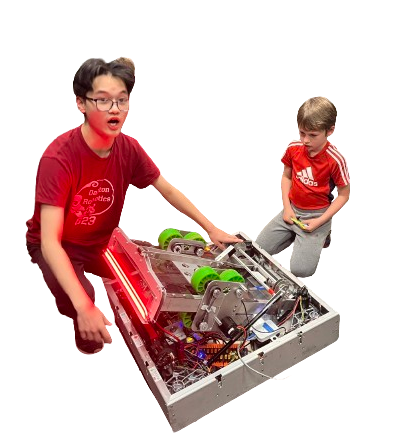
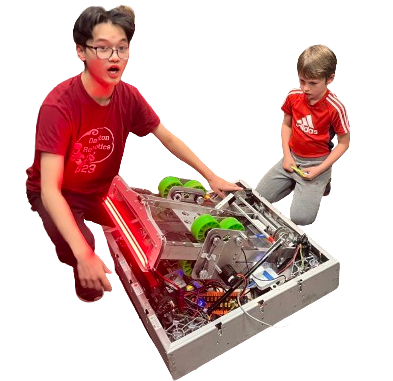
changed index wording slightly

diff --git a/index.html b/index.html
@@ -135,15 +135,13 @@
                         that communication, collaboration, and diversity allows us to triumph and overcome obstacles, 
                         and strive to create a space in which everyone is able to share their ideas. Different 
                         perspectives allow us to work to our highest potential. While we are a competitive team, we 
-                        also value gracious professionalism throughout the season, especially during competitions.
+                        also value gracious professionalism throughout the season, especially during competitions.-->
                     </p>
                 </div>
 
                 <div class="aboutUs3 figtree">
                     <p>
-                        Cougar Robotics is organized into 4 major categories: FRC, FTC, Business, and R&D. Students newer 
-                        to robotics generally start on one of our FTC teams, or opt to join our growing Business team and R&D, 
-                        team while the more experienced students focus on the FRC team. The Business Team works year round, 
+                        Cougar Robotics is organized into 4 major categories: FRC, FTC, Business, and R&D. The Business Team works year round, 
                         assisting both FTC teams during the “winter” season and the FRC during the “spring” season. 
                         Similar to other clubs, we have a Board made up of students and adults. The composition of the 
                         Board includes the President, Treasurer, Secretary, Alumnus, and the Advisor. All adults are 

diff --git a/assets/css/style.css b/assets/css/style.css
@@ -372,8 +372,8 @@ a.interestLink {
 .HoratioPhoto {
     -webkit-animation: mover 2s infinite  alternate;
     animation: mover 1.5s infinite  alternate;
-    width: 45vw;
-    padding: 0 4vw 0 8vw;
+    width: 42vw;
+    padding: 3vw 4vw 2vw 10vw;
 }
 
 .aboutUsDescription2 {
